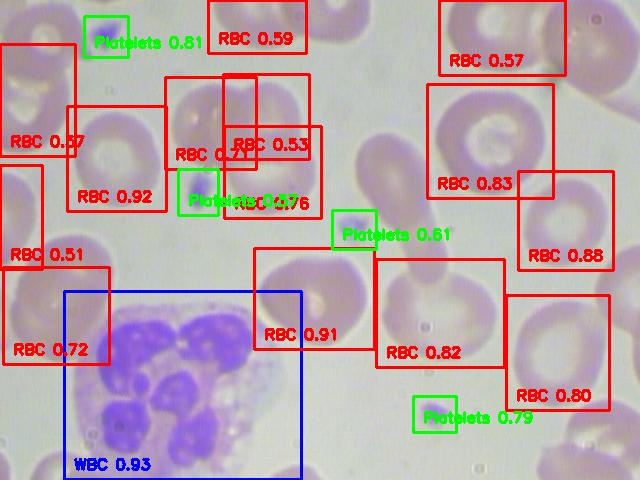
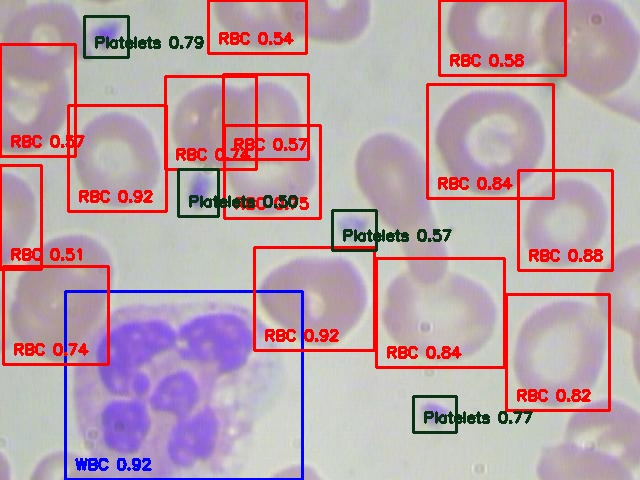
streamlit application made and model integrated

diff --git a/app.py b/app.py
@@ -1,0 +1,154 @@
+import io
+import pandas as pd
+from PIL import Image
+import streamlit as st
+from model import detect_classes
+
+st.set_page_config(
+    page_title="Side Menu Example",
+    layout="wide",
+    initial_sidebar_state="collapsed"
+)
+
+st.markdown(
+    """
+    <style>
+    /* Change the font in the sidebar */
+    .css-1d391kg {  /* Sidebar class */
+        font-family: Ubuntu;  /* Change to desired font */
+        font-size: 16px;  /* Adjust font size */
+    }
+    </style>
+    """,
+    unsafe_allow_html=True
+)
+
+st.sidebar.title("Choose Weights")
+option = st.sidebar.selectbox(
+    "Choose weights:",
+    ["Last", "Best"]
+)
+
+st.markdown("<h1 style='font-size: 38px; font-family:Ubuntu ; text-align:center;'>Object Detection with YOLOv10 on BCCD Dataset</h1>", unsafe_allow_html=True)
+
+st.markdown("<h1 style='font-size:18px; font-family:Ubuntu ; text-align:center;'>The following application performs object detection, i.e. in this case blood cell type detection between the classes RBC, WBC and Platelets, draws bounding boxes around them and displays the confidence score and class of each box within it. It also displays the overall precison and overall recall of the model as well as precison and recall on each class.</h1>", unsafe_allow_html=True)
+
+st.markdown("<h1 style='font-size:18px; font-family:Ubuntu ; text-align:center;'>The model has two weights, Best and Last(default).</br> Toggle between the weights by going to the sidebar and choosing the weight that suits you best.</h1>", unsafe_allow_html=True)
+
+st.markdown("<h1 style='font-size:20px; font-family:Ubuntu ; text-align:center;'>Upload a sample image to perfrom object detection on the image</h1>", unsafe_allow_html=True)
+
+st.markdown(
+    """
+    <style>
+    .stButton {
+        display: flex;
+        justify-content: center;  /* Center horizontally */
+    }
+    .stButton > button {
+        width: 200px;  /* Set button width */
+        height: 50px;  /* Set button height */
+        font-size: 24px;  /* Adjust font size */
+        font-weight:bold;
+        background-color: #4f1323;  /* Button background color */
+        color: white;  /* Text color */
+        border: 0.1px solid;  /* Remove border */
+        border-color: white;
+        border-radius: 8px;  /* Rounded corners */
+        cursor: pointer;  /* Pointer cursor on hover */
+    }
+    </style>
+    """,
+    unsafe_allow_html=True
+)
+
+st.markdown(
+    """
+    <style>
+    .stImage {
+        border: 1px solid white;
+        padding: 5px;
+        display: inline-block;
+    }
+    .stSubheader{
+        text-align:center;
+    }
+    </style>
+    """,
+    unsafe_allow_html=True,
+)
+
+def display_images_metrics(uploaded_image, processed_image, class_metrics, overall_metrics):
+    st.markdown("<h1 style='font-size:20px; font-family:Ubuntu ; text-align:center;'></br>Results</h1>", unsafe_allow_html=True)
+    img_col1, img_col2 = st.columns(2)
+    with img_col1:
+        st.image(uploaded_image, caption="Original Image", width = 600,use_container_width=False)
+    with img_col2:
+        st.image(processed_image, caption="Processed Image with class detections", width = 600,use_container_width=False)
+
+    st.markdown("<h1 style='font-size:20px; font-family:Ubuntu ; text-align:center;'></br>Model Metrics</h1>", unsafe_allow_html=True)
+
+    key_mapping = {0: "RBC", 1: "WBC", 2: "Platelets"}
+    mapped_class_metrics = {key_mapping[k]: v for k, v in class_metrics.items()}
+    df_class_metrics = pd.DataFrame.from_dict(mapped_class_metrics, orient="index").reset_index()
+    df_class_metrics.rename(columns={"index": "Classes"}, inplace=True)
+
+    df_overall_metrics = pd.DataFrame(overall_metrics, index=['overall'])
+
+    metrics_col1, metrics_col2 = st.columns(2)
+    with metrics_col1:
+        st.markdown("<h1 style='font-size:20px; font-family:Ubuntu ; text-align:center;'>Class Metrics</h1>", unsafe_allow_html=True)
+        st.table(df_class_metrics)
+    with metrics_col2:
+        st.markdown("<h1 style='font-size:20px; font-family:Ubuntu ; text-align:center;'>Overall Metrics</h1>", unsafe_allow_html=True)
+        st.table(df_overall_metrics)
+        
+def download_processed_image(image, filename):
+    img_byte_arr = io.BytesIO()
+    image.save(img_byte_arr, format="JPEG")
+    img_byte_arr.seek(0)
+
+    st.markdown(
+        """
+        <style>
+        .stDownloadButton > button {
+            font-size: 24px;  /* Adjust font size */
+            height: 50px;
+            font-weight:bold;
+            background-color: #4f1323;  /* Button background color */ 
+            color: white;  /* Text color */
+            border: 0.1px solid;  /* Remove border */
+            border-color: white;
+            border-radius: 8px;  /* Rounded corners */
+            cursor: pointer;  /* Pointer cursor on hover */
+        }
+        </style>
+        """,
+        unsafe_allow_html=True
+    )
+
+    st.download_button(
+        label="⤓ Download Processed Image",
+        data=img_byte_arr,
+        file_name=filename[:-4],
+        mime="image/jpeg",
+        use_container_width=True
+    )
+
+class_metrics, overall_metrics = None, None
+uploaded_file = st.file_uploader(".", type=["jpg", "jpeg", "png"], label_visibility="collapsed")
+
+if uploaded_file is not None:
+    file_name = uploaded_file.name
+    uploaded_image = Image.open(uploaded_file)
+    st.write("Image uploaded successfully!")
+    if st.button("🔍 Detect"):
+        if option == "Last":
+            class_metrics, overall_metrics, processed_img = detect_classes(uploaded_image,"./results/",file_name[:-4],'last')
+            display_images_metrics(uploaded_image, processed_img, class_metrics, overall_metrics)
+            download_processed_image(processed_img,f"processed_{file_name}.jpg")
+        elif option == "Best":
+            class_metrics, overall_metrics, processed_img = detect_classes(uploaded_image,"./results/",file_name[:-4],'best')
+            display_images_metrics(uploaded_image, processed_img, class_metrics, overall_metrics)
+            download_processed_image(processed_img,f"processed_{file_name}.jpg")
+    else:
+        pass

diff --git a/model.py b/model.py
@@ -1,53 +1,15 @@
 import os
 import cv2
-import time
-import torch
+import numpy as np
+from PIL import Image
 from ultralytics import YOLOv10
 from collections import defaultdict
-
-weights_path = "./outputs/content/runs/detect/train/weights/last.pt"
-model = YOLOv10(weights_path)
 
 def process_results(results):
     classes = list(results[0].boxes.cls)
     dims = list(results[0].boxes.xywhn)
 
     return list(zip(classes, dims)) 
-
-def detect_classes(img,out_path,filename):
-    image = cv2.imread(img)
-    if image is None:
-        print(f"Error: Could not load image at {img}")
-        return
-
-    class_colors = {
-        0: (0, 0, 255),  # Red for class 0 (RBC)
-        1: (255, 0, 0),  # Blue for class 1 (WBC)
-        2: (0, 255, 0),  # Green for class 2 (Platelets)
-    }
-
-    results = model.predict(image, conf=0.5)
-
-    for result in results:
-        for box in result.boxes:
-            x_min, y_min, x_max, y_max = map(int, box.xyxy[0].tolist())
-            class_id = int(box.cls[0])
-            confidence = box.conf[0]
-            label = f"{result.names[class_id]} {confidence:.2f}"
-            color = class_colors.get(class_id, (255, 255, 255))
-
-            cv2.rectangle(image, (x_min, y_min), (x_max, y_max), color, 2)
-            cv2.putText(image, label, (x_min+10, y_max - 10), cv2.FONT_HERSHEY_SIMPLEX, 0.5, color, 2)
-
-    out_path = out_path+filename+".jpg"
-    try:
-        cv2.imwrite(out_path, image)
-        print(f"Updated image saved to {out_path}")
-    except Exception as e:
-        print(f"Failed to save image at {out_path}")
-        return
-    processed_results = process_results(results)
-    return processed_results
 
 def get_ground_truth(file_path):
     if not os.path.exists(file_path):
@@ -140,23 +102,52 @@ def calculate_metrics(predictions, ground_truths, iou_threshold=0.5):
     return class_metrics, overall_metrics
 
 
+def detect_classes(image,out_path,filename,weights='last'):
 
-img_shape = (480,640)
-filename = "BloodImage_00409"
-img_ext = ".jpg"
-txt_ext = ".txt"
-in_img_path = "./data/images/train/"+filename+img_ext
-out_img_path = "./results/"
-annot_file = "./data/labels/train/"+filename+txt_ext
-start_time = time.time()
+    if isinstance(image, Image.Image):  # Check if it's a PIL image
+        image = np.array(image)
+        image = cv2.cvtColor(image, cv2.COLOR_RGB2BGR)
+    elif isinstance(image, str): # Check if it's a path
+        image = cv2.imread(image)
 
-pred = detect_classes(in_img_path,out_img_path,filename)
-ground_truth = get_ground_truth(annot_file)
-class_metrics, overall_metrics = calculate_metrics(pred, ground_truth)
+    if image is None:
+        print(f"Error: Could not load image at {image}")
+        return
 
-print("Class Metrics:", class_metrics)
-print("Overall Metrics:", overall_metrics)
-end_time = time.time()
+    class_colors = {
+        0: (0, 0, 255),  # Red for class 0 (RBC)
+        1: (255, 0, 0),  # Blue for class 1 (WBC)
+        2: (21, 51, 10),  # Green for class 2 (Platelets)
+    }
 
-print(f"\nExecution completed in {end_time-start_time}s")
+    weights_path = f"./outputs/content/runs/detect/train/weights/{weights}.pt"
+    model = YOLOv10(weights_path)
+    results = model.predict(image, conf=0.5)
 
+    for result in results:
+        for box in result.boxes:
+            x_min, y_min, x_max, y_max = map(int, box.xyxy[0].tolist())
+            class_id = int(box.cls[0])
+            confidence = box.conf[0]
+            label = f"{result.names[class_id]} {confidence:.2f}"
+            color = class_colors.get(class_id, (255, 255, 255))
+
+            cv2.rectangle(image, (x_min, y_min), (x_max, y_max), color, 2)
+            cv2.putText(image, label, (x_min+10, y_max - 10), cv2.FONT_HERSHEY_SIMPLEX, 0.5, color, 2)
+
+    # out_path = out_path+filename+".jpg"
+    # try:
+    #     cv2.imwrite(out_path, image)
+    #     print(f"Updated image saved to {out_path}")
+    # except Exception as e:
+    #     print(f"Failed to save image at {out_path}")
+    #     return
+    
+    annotated_image = cv2.cvtColor(image, cv2.COLOR_BGR2RGB)
+    pil_image = Image.fromarray(annotated_image)
+
+    processed_results = process_results(results)
+    ground_truth = get_ground_truth("./data/labels/train/"+filename+".txt")
+    class_metrics, overall_metrics = calculate_metrics(processed_results, ground_truth)
+
+    return class_metrics, overall_metrics, pil_image
